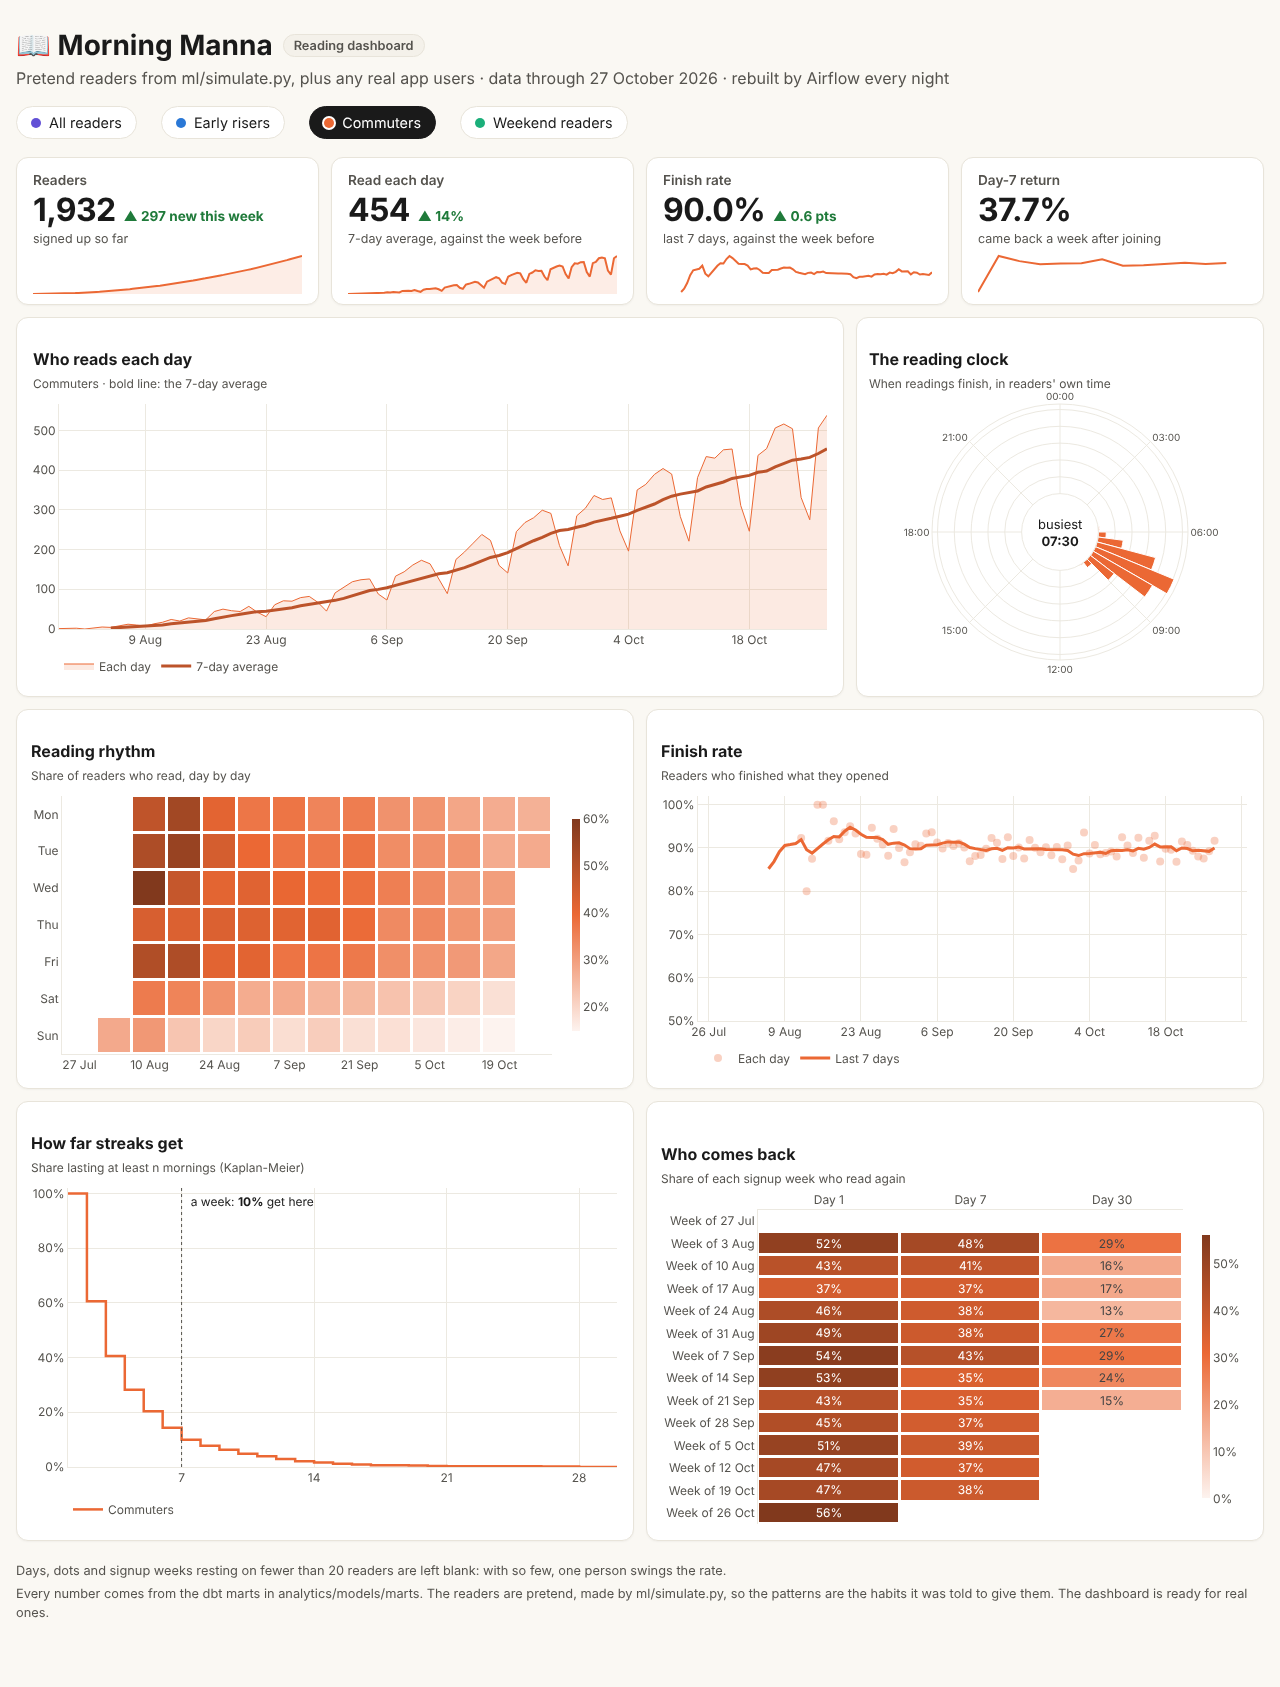
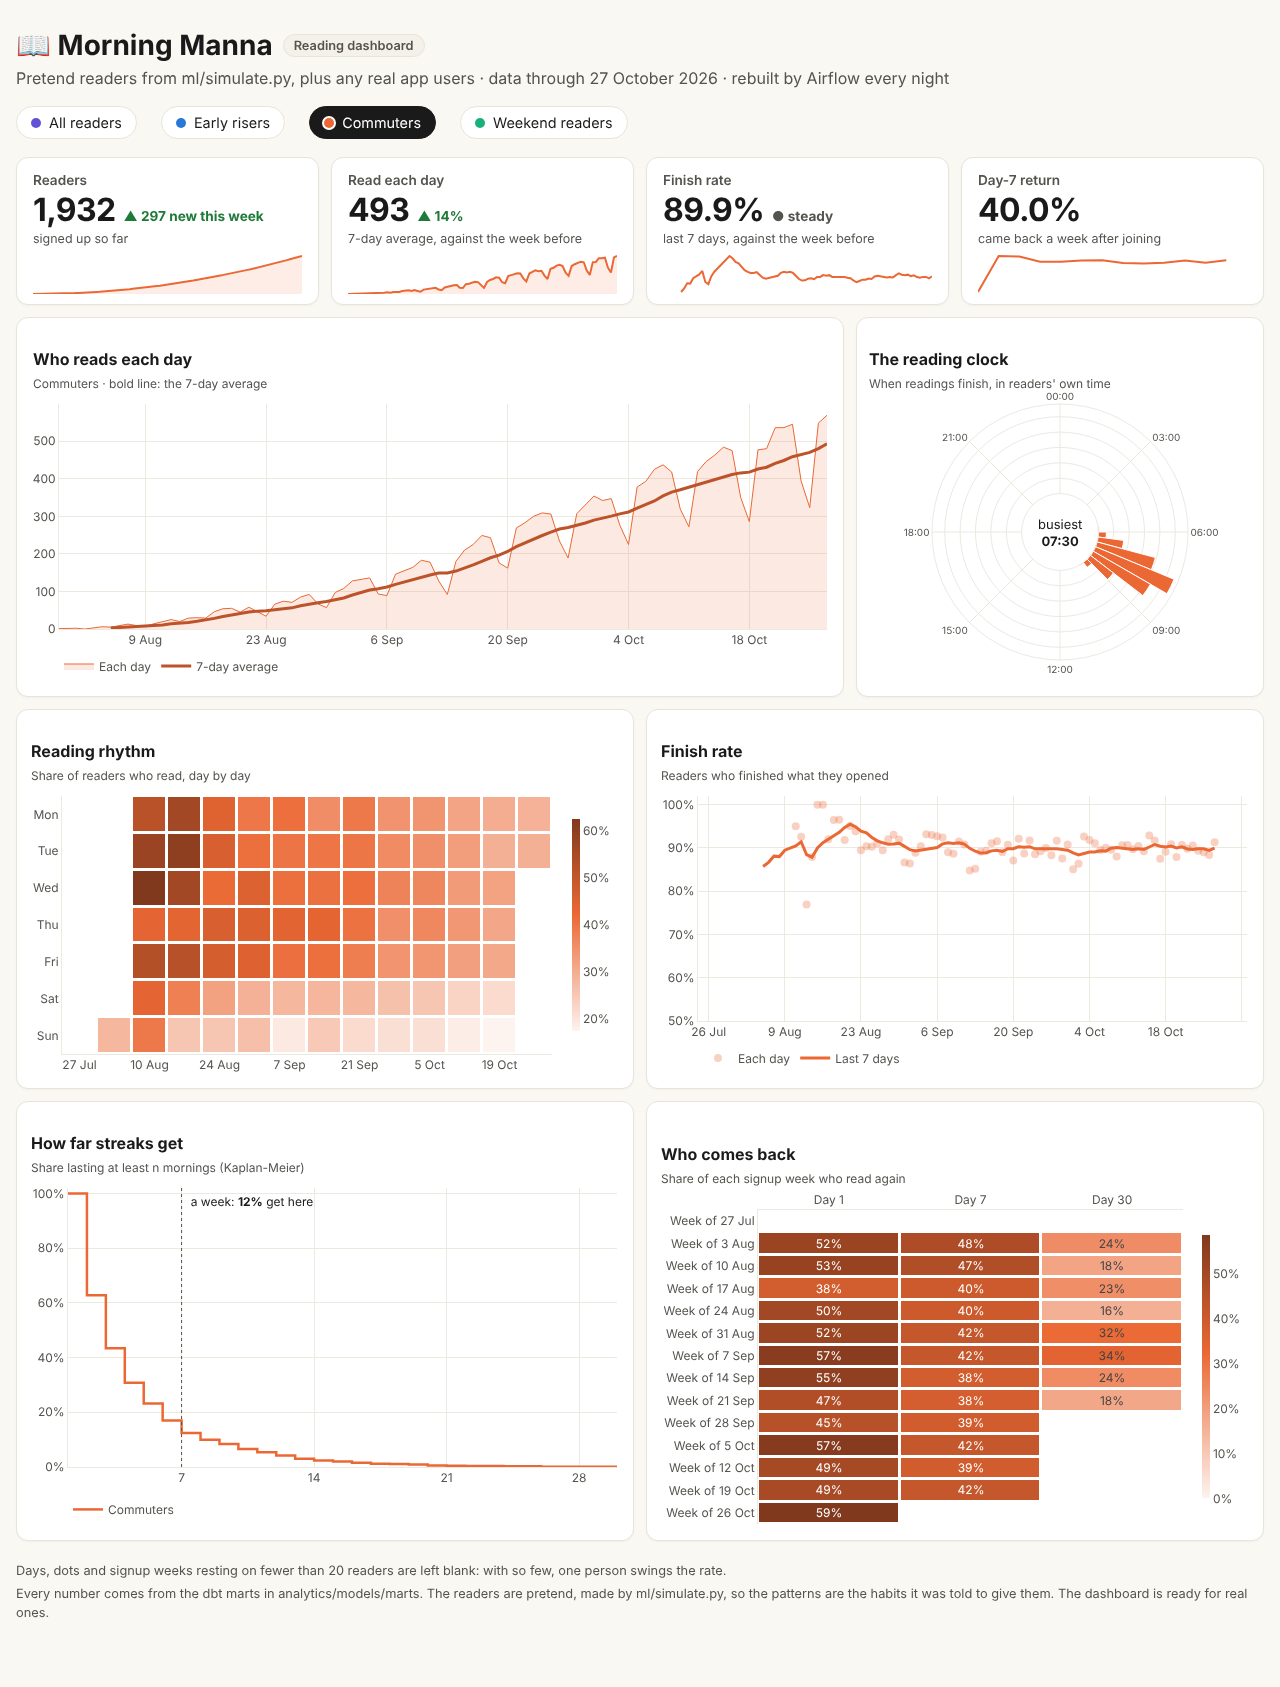
Give the pretend readers reminder groups, and build the experiment's table (Card 6.3.3) (#63)

diff --git a/ml/simulate.py b/ml/simulate.py
@@ -55,6 +55,13 @@ WEEKDAY_FACTOR = {
     "weekend_reader": (0.45, 0.4, 0.4, 0.45, 0.5, 1.0, 1.0),
 }
 
+# The reminder experiment (docs/analysis/reminder-experiment.md): a fair coin gives each
+# reader wording A or B. B carries a planted effect: on any morning, a reader whose reminders
+# are on is this much likelier to read. It's the practice run's answer key, so the analysis
+# (Card 6.4) never reads it, and is compared with it only once the analysis is done.
+REMINDER_VARIANTS = ("A", "B")
+WORDING_B_LIFT = 0.10
+
 # Minutes after waking that a reader opens the passage: (mean, spread) on (weekdays, weekends)
 READ_DELAY = {
     "early_riser": ((10, 8), (20, 15)),
@@ -73,6 +80,7 @@ class Reader:
     wake_time: str  # "05:15", the reader's local time
     signed_up_on: str  # "2026-08-14"
     reminders_on: bool
+    reminder_variant: str  # "A" or "B", the reminder experiment's coin flip
     source: str = "synthetic"
 
 
@@ -84,6 +92,8 @@ def utc_text(moment: datetime) -> str:
 def make_readers(count: int, start: date, days: int, seed: int) -> list[Reader]:
     """Invent the readers: who they are, where they live, and when they joined."""
     rng = np.random.default_rng([seed, 0])
+    # The experiment's coin has a stream of its own, so adding it changed no other draw
+    coin = np.random.default_rng([seed, 0, 1])
     readers = []
     for n in range(count):
         persona = str(rng.choice(PERSONAS, p=PERSONA_SHARE))
@@ -100,6 +110,7 @@ def make_readers(count: int, start: date, days: int, seed: int) -> list[Reader]:
                 wake_time=f"{wake // 60:02d}:{wake % 60:02d}",
                 signed_up_on=joined.isoformat(),
                 reminders_on=bool(rng.random() < 0.85),
+                reminder_variant=str(coin.choice(REMINDER_VARIANTS)),
             )
         )
     return readers
@@ -134,6 +145,9 @@ def simulate_reader(reader: Reader, end: date, seed: int) -> list[dict]:
             chance += min(0.05 * streak, 0.25)
         elif days_missed >= 2:
             chance -= 0.15
+        # Wording B can only help a reader who sees it: one whose reminders are on
+        if reader.reminders_on and reader.reminder_variant == "B":
+            chance += WORDING_B_LIFT
         chance = min(max(chance, 0.0), 0.98)
 
         woke = datetime.combine(day, wake, tzinfo=zone)

diff --git a/pipelines/ingest/load_events.py b/pipelines/ingest/load_events.py
@@ -54,9 +54,12 @@ create table if not exists {schema}.readers (
     wake_time    text not null,
     signed_up_on date not null,
     reminders_on boolean not null,
+    reminder_variant text,              -- "A" or "B": the reminder experiment's coin flip
     source       text not null,
     loaded_at    timestamptz not null default now()
 );
+-- Warehouses made before the reminder experiment get the new column too
+alter table {schema}.readers add column if not exists reminder_variant text;
 
 create table if not exists {schema}.load_runs (
     id            serial primary key,
@@ -150,15 +153,21 @@ def load_readers(conn, schema: str, client, bucket: str) -> int:
         body = client.get_object(Bucket=bucket, Key="readers/synthetic.jsonl")["Body"].read()
     except client.exceptions.NoSuchKey:
         return 0
-    readers = [json.loads(line) for line in body.decode().splitlines() if line.strip()]
+    # A readers file made before the reminder experiment has no group: it loads as empty
+    readers = [
+        {"reminder_variant": None} | json.loads(line)
+        for line in body.decode().splitlines()
+        if line.strip()
+    ]
     query = sql.SQL(
         "insert into {} (user_key, persona, timezone, wake_time, signed_up_on, reminders_on,"
-        " source) values (%(user_key)s, %(persona)s, %(timezone)s, %(wake_time)s,"
-        " %(signed_up_on)s, %(reminders_on)s, %(source)s)"
+        " reminder_variant, source) values (%(user_key)s, %(persona)s, %(timezone)s,"
+        " %(wake_time)s, %(signed_up_on)s, %(reminders_on)s, %(reminder_variant)s, %(source)s)"
         " on conflict (user_key) do update set persona = excluded.persona,"
         " timezone = excluded.timezone, wake_time = excluded.wake_time,"
         " signed_up_on = excluded.signed_up_on, reminders_on = excluded.reminders_on,"
-        " source = excluded.source, loaded_at = now()"
+        " reminder_variant = excluded.reminder_variant, source = excluded.source,"
+        " loaded_at = now()"
     ).format(sql.Identifier(schema, "readers"))
     with conn.transaction():
         conn.cursor().executemany(query, readers)

diff --git a/pipelines/tests/test_ingest.py b/pipelines/tests/test_ingest.py
@@ -160,6 +160,38 @@ def test_readers_are_loaded_and_updated_not_doubled(lake, schema):
     ]
 
 
+def test_readers_keep_their_reminder_group(lake, schema):
+    reader = {"user_key": "sim:00001", "persona": "commuter", "timezone": "Africa/Lagos",
+              "wake_time": "06:30", "signed_up_on": "2026-08-01", "reminders_on": True,
+              "source": "synthetic"}
+    # A file from before the experiment has no group, and still loads
+    put(lake, "readers/synthetic.jsonl", json.dumps(reader))
+    load_events.run([], schema)
+    assert query(schema, "select reminder_variant from {s}.readers") == [(None,)]
+    # The next file gives the reader a group, and loading again fills it in
+    put(lake, "readers/synthetic.jsonl", json.dumps(reader | {"reminder_variant": "B"}))
+    load_events.run([], schema)
+    assert query(schema, "select reminder_variant from {s}.readers") == [("B",)]
+
+
+def test_an_older_warehouse_gets_the_new_column(lake, schema):
+    # raw.readers as it was before the reminder experiment, without reminder_variant
+    with psycopg.connect(database_url(), autocommit=True) as conn:
+        conn.execute(sql.SQL("create schema {}").format(sql.Identifier(schema)))
+        conn.execute(sql.SQL(
+            "create table {} (user_key text primary key, persona text,"
+            " timezone text not null, wake_time text not null, signed_up_on date not null,"
+            " reminders_on boolean not null, source text not null,"
+            " loaded_at timestamptz not null default now())"
+        ).format(sql.Identifier(schema, "readers")))
+    put(lake, "readers/synthetic.jsonl", json.dumps({
+        "user_key": "sim:00001", "persona": "commuter", "timezone": "Africa/Lagos",
+        "wake_time": "06:30", "signed_up_on": "2026-08-01", "reminders_on": True,
+        "reminder_variant": "A", "source": "synthetic"}))
+    load_events.run([], schema)
+    assert query(schema, "select reminder_variant from {s}.readers") == [("A",)]
+
+
 def test_every_run_is_logged(lake, schema):
     put(lake, "events/dt=2026-10-27/a.jsonl", line("e1"), "broken")
     load_events.run([DAY], schema)

diff --git a/ml/tests/test_simulate.py b/ml/tests/test_simulate.py
@@ -108,6 +108,37 @@ def test_streaks_break_and_readers_drift_away(data):
     assert len(last_week) < 0.8 * len(days)
 
 
+def test_every_reader_gets_a_fair_coin_flip():
+    readers = sim.make_readers(10_000, date(2026, 7, 30), 90, seed=7)
+    groups = [r.reminder_variant for r in readers]
+
+    assert set(groups) == set(sim.REMINDER_VARIANTS)
+    # A fair coin lands within 300 of 5,000 in all but about 1 in 10^9 runs (6 sd)
+    assert abs(groups.count("A") - 5_000) < 300
+
+
+def test_the_wording_only_reaches_readers_who_see_it(monkeypatch):
+    # The same readers, with and without wording B's planted effect
+    with_effect = sim.simulate(readers=300, days=40, end=END, seed=5)
+    monkeypatch.setattr(sim, "WORDING_B_LIFT", 0.0)
+    without = sim.simulate(readers=300, days=40, end=END, seed=5)
+    assert with_effect[0] == without[0]  # the coin and everything else about each reader
+
+    def events_of(run, keys):
+        return [
+            {k: v for k, v in e.items() if k != "event_id"}  # ids are numbered across everyone
+            for e in run[1] if e["user_key"] in keys
+        ]
+
+    readers = with_effect[0]
+    # Group A, and group B readers with reminders off, live exactly the same mornings
+    untouched = {r.user_key for r in readers if r.reminder_variant == "A" or not r.reminders_on}
+    assert events_of(with_effect, untouched) == events_of(without, untouched)
+    # Group B readers with reminders on are the ones the planted effect reaches
+    touched = {r.user_key for r in readers} - untouched
+    assert events_of(with_effect, touched) != events_of(without, touched)
+
+
 def test_write_lake_lays_out_files_by_arrival_day(tmp_path, data):
     readers, events = data
     summary = sim.write_lake(readers, events, tmp_path)

diff --git a/analytics/README.md b/analytics/README.md
@@ -6,18 +6,18 @@ dbt-core 1.12 · dbt-postgres 1.11 · PostgreSQL 16 · Dash 4 · Plotly 6
 
 ## 📈 The answers so far
 
-From the pretend readers ([ml/simulate.py](../ml/simulate.py): 5,000 readers, the 90 days to 27 October 2026, seed 7). These are practice data, not real people.
+From the pretend readers ([ml/simulate.py](../ml/simulate.py): 5,000 readers, the 90 days to 27 October 2026, seed 7). These are practice data, not real people. Half of them are in group B of the [reminder experiment](#-experiments), which the simulator gave a planted effect, so these numbers include it.
 
 | Measure | Value |
 |---|---|
-| Came back on day 1 | **46.7%** |
-| Came back on day 7 | **37.6%** |
-| Came back on day 30 | **21.2%** |
+| Came back on day 1 | **49.5%** |
+| Came back on day 7 | **40.0%** |
+| Came back on day 30 | **23.6%** |
 | Finished the reading they opened | **90.0%** |
 | Median streak | **2 mornings** |
-| Streaks that reach a week | **11%** |
-| Longest streak | **35 mornings** |
-| Signed up but never read | **969 of 5,000** |
+| Streaks that reach a week | **13%** |
+| Longest streak | **39 mornings** |
+| Signed up but never read | **917 of 5,000** |
 
 ## 📊 The dashboard
 
@@ -73,11 +73,11 @@ flowchart TD
     S["① Sources<br/>raw.events · raw.readers · public.users<br/>(the loader and the app)"]
     G["② Staging: views<br/>stg_events · stg_users"]
     I["③ Intermediate: a table<br/>int_daily_reading, one row per reader per day"]
-    M["④ Marts: the answers, as tables<br/>fct_streaks · fct_retention_cohorts · dim_users<br/>fct_daily_activity · fct_reading_times"]
+    M["④ Marts: the answers, as tables<br/>fct_streaks · fct_retention_cohorts · dim_users<br/>fct_daily_activity · fct_reading_times · fct_experiment"]
     D["⑤ The notebook and the dashboard"]
     S -->|tidy names and types| G
     G -->|a row for every day since signup, read or not| I
-    I -->|streaks, cohorts, readers, daily activity| M
+    I -->|streaks, cohorts, readers, daily activity, the experiment| M
     G -->|finished readings, by the half hour| M
     M -->|read by| D
 ```
@@ -85,13 +85,14 @@ flowchart TD
 | Model | One row per | What it holds |
 |---|---|---|
 | `stg_events` | event | The lake's events, cleaned up |
-| `stg_users` | reader | Pretend readers and the app's real users together (as `app:<id>`), with the day each signed up in their own time zone |
+| `stg_users` | reader | Pretend readers and the app's real users together (as `app:<id>`), with the day each signed up in their own time zone and their reminder group (A or B) |
 | `int_daily_reading` | reader per day | From signup to the last day of data: did they read, did they open the app, how many events |
 | `fct_streaks` | streak | Each unbroken run of mornings read: start, end, length, and whether it's still going |
 | `fct_retention_cohorts` | signup week per persona | How many came back on day 1, 7 and 30, and the rates. Add the rows up for everyone |
 | `dim_users` | reader | Longest and current streak, active in the last 7 days, never read |
 | `fct_daily_activity` | day per persona | Readers who had joined, readers who read, and how many who opened a reading finished one |
 | `fct_reading_times` | half hour per persona | Readings finished in each half hour of the readers' own day |
+| `fct_experiment` | reader in the reminder test | Their group, day-1 and day-7 return (once they've had the day), and first-week readings opened and finished |
 
 ## 🧭 Decisions
 
@@ -136,6 +137,8 @@ Airflow runs `dbt build` every night after the loader, so the tables are fresh e
 
 The first A/B test compares two wordings of the morning reminder. Its plan was written down before any data existed: [docs/analysis/reminder-experiment.md](../docs/analysis/reminder-experiment.md) fixes the measure (day-7 return), the sample size (**1,508 new readers per group**) and how the result will be decided.
 
+Every reader in the test is a row of `fct_experiment`, with the measures the plan decides on. The pretend readers' test runs across the whole simulation; for real app users it began on 2 November 2026, when the app started flipping the coin (`reminder_test_app_start` in [dbt_project.yml](dbt_project.yml)).
+
 [experiments/power.py](experiments/power.py) works out the sample size. To see the table, from `analytics/experiments`:
 
 ```bash
@@ -158,17 +161,19 @@ jupyter nbconvert --clear-output --ClearMetadataPreprocessor.enabled=True --inpl
 
 | What | How many | Run with |
 |---|---|---|
-| dbt data tests | **36** | `dbt build` |
+| dbt data tests | **46** | `dbt build` |
 | Dashboard tests | **34** | `pytest`, from `analytics/dashboard` |
 | Experiment tools | **9** | `pytest`, from `analytics/experiments` |
 
-The dbt tests check keys that are unique and never empty, events that belong to a known reader, and allowed values only, plus five custom checks in [tests/](tests/):
+The dbt tests check keys that are unique and never empty, events that belong to a known reader, and allowed values only, plus seven custom checks in [tests/](tests/):
 
 - `one_row_per_reader_per_day`: no reader has the same day twice.
 - `streaks_add_up`: each streak's length matches its dates, and all the streaks together add up to every morning read.
 - `retention_rates_make_sense`: no more readers returned than were eligible, and every rate is between 0 and 1.
 - `daily_activity_makes_sense`: no more readers active, or finishing, than could be, and every finish rate between 0 and 1.
 - `reading_times_add_up`: every finished reading lands in exactly one half hour of the clock.
+- `experiment_makes_sense`: nobody in the experiment returns on a day they haven't had yet, or finishes more readings than they opened.
+- `experiment_matches_retention`: the experiment's day-1 and day-7 counts, added up over both groups, equal the retention cohorts' counts for the pretend readers.
 
 The dashboard tests check the arithmetic on small hand-made tables (Kaplan-Meier, the week-on-week changes, the small-group rule), the warehouse against itself (the personas add up to everyone), and the warehouse against the simulator's answer key.
 
@@ -180,4 +185,4 @@ The **analytics** job in CI builds the warehouse from nothing on every push:
 4. The loader.
 5. `dbt build`.
 
-It then prints the day 1, 7 and 30 retention in the log, runs every notebook from top to bottom, checks each was saved without its outputs, and lints and tests the dashboard and the experiment tools.
+It then prints the day 1, 7 and 30 retention and the size of each experiment group in the log (only the sizes: nobody looks at how the groups did until the analysis), runs every notebook from top to bottom, checks each was saved without its outputs, and lints and tests the dashboard and the experiment tools.

diff --git a/ml/README.md b/ml/README.md
@@ -14,7 +14,9 @@ There are no real users yet, so the pipelines, the warehouse and the models need
 | Commuter | 40% | Reads on the way to work; dips at weekends |
 | Weekend reader | 25% | Reads most on Saturdays and Sundays |
 
-Readers live in five time zones (Lagos, New York, London, Manila and Chicago). Their streaks break, and some drift away for good. Every reader and event is marked `synthetic`, and none of it goes near the app's own tables.
+Readers live in five time zones (Lagos, New York, London, Manila and Chicago). Their streaks break, and some drift away for good.
+
+**The reminder experiment.** A fair coin puts each reader in group A or B of the [reminder test](../docs/analysis/reminder-experiment.md), and wording B carries a planted effect: readers in group B whose reminders are on are a little likelier to read each morning. It's the practice run's answer key. The analysis never reads it, and is checked against it only once it's done. The coin has a random stream of its own, so group A readers live exactly the mornings they did before the experiment existed. Every reader and event is marked `synthetic`, and none of it goes near the app's own tables.
 
 ```bash
 # From the repo root
@@ -23,7 +25,7 @@ python ml/simulate.py --end 2026-10-27      # the same days every time
 python ml/simulate.py --readers 200 --days 30 --seed 3
 ```
 
-The same seed (7 by default) and the same end date always make exactly the same readers. That's how CI and two different computers can check each other to the last event. With `--end 2026-10-27`: 5,000 readers, 166,154 events.
+The same seed (7 by default) and the same end date always make exactly the same readers. That's how CI and two different computers can check each other to the last event. With `--end 2026-10-27`: 5,000 readers, 179,077 events.
 
 It writes a small data lake, laid out the way the S3 bucket holds it:
 
@@ -39,5 +41,5 @@ Then [pipelines/README.md](../pipelines/README.md#the-loader) uploads and loads 
 ```bash
 cd ml
 pip install -e ".[dev]"
-pytest          # 12 tests
+pytest          # 14 tests
 ```

diff --git a/CLAUDE.md b/CLAUDE.md
@@ -28,7 +28,7 @@ Airflow daily_events (00:30 UTC): ingest.load_events (yesterday's folder → raw
 - The backend's lake write (`app/lake.py`) runs after the response and never fails the request; `LAKE_URL=""` disables it.
 - `load_events` replaces a whole day in one transaction (idempotent), rejects and counts bad lines, and logs runs in `raw.load_runs`.
 - The scripture ETL (`python -m app.etl`) downloads KJV/ASV into `data/raw/`, validates (66 books, chapter counts, no dupes), upserts in one transaction, and logs to `etl_runs`. Re-running changes nothing.
-- dbt `stg_users` unions synthetic readers (`raw.readers`) with real app users (as `app:<id>`).
+- dbt `stg_users` unions synthetic readers (`raw.readers`) with real app users (as `app:<id>`), each with their `reminder_variant`. `fct_experiment` holds one row per reader in the reminder A/B test (docs/analysis/reminder-experiment.md).
 
 ## Backend invariants (don't break these)
 
@@ -82,7 +82,7 @@ DAG tests need Airflow, so run them in the container:
 
 ### ML (`cd ml`)
 
-`pytest`. Run `python ml/simulate.py --end 2026-10-27` (from the root) for reproducible data. Seed 7 with that end date yields exactly 5,000 readers and 166,154 events; CI and the analytics README numbers depend on this, so changing the simulator changes them.
+`pytest`. Run `python ml/simulate.py --end 2026-10-27` (from the root) for reproducible data. Seed 7 with that end date yields exactly 5,000 readers and 179,077 events; CI and the analytics README numbers depend on this, so changing the simulator changes them. Each reader gets reminder wording A or B; `WORDING_B_LIFT` is the planted effect, the practice run's answer key: the Card 6.4 analysis must never read it, and is compared with it only once the analysis is done.
 
 ### Mobile (`cd mobile`)
 

diff --git a/pipelines/README.md b/pipelines/README.md
@@ -78,7 +78,7 @@ docker compose exec airflow airflow backfill create --dag-id daily_events \
 
 ```bash
 cd pipelines
-pytest                    # the loader: 13 tests (needs: docker compose up -d db)
+pytest                    # the loader: 15 tests (needs: docker compose up -d db)
 ```
 
 The loader's tests run against a real Postgres and a stand-in S3 server (moto), with a fresh schema for each test, so they never touch `raw`.
